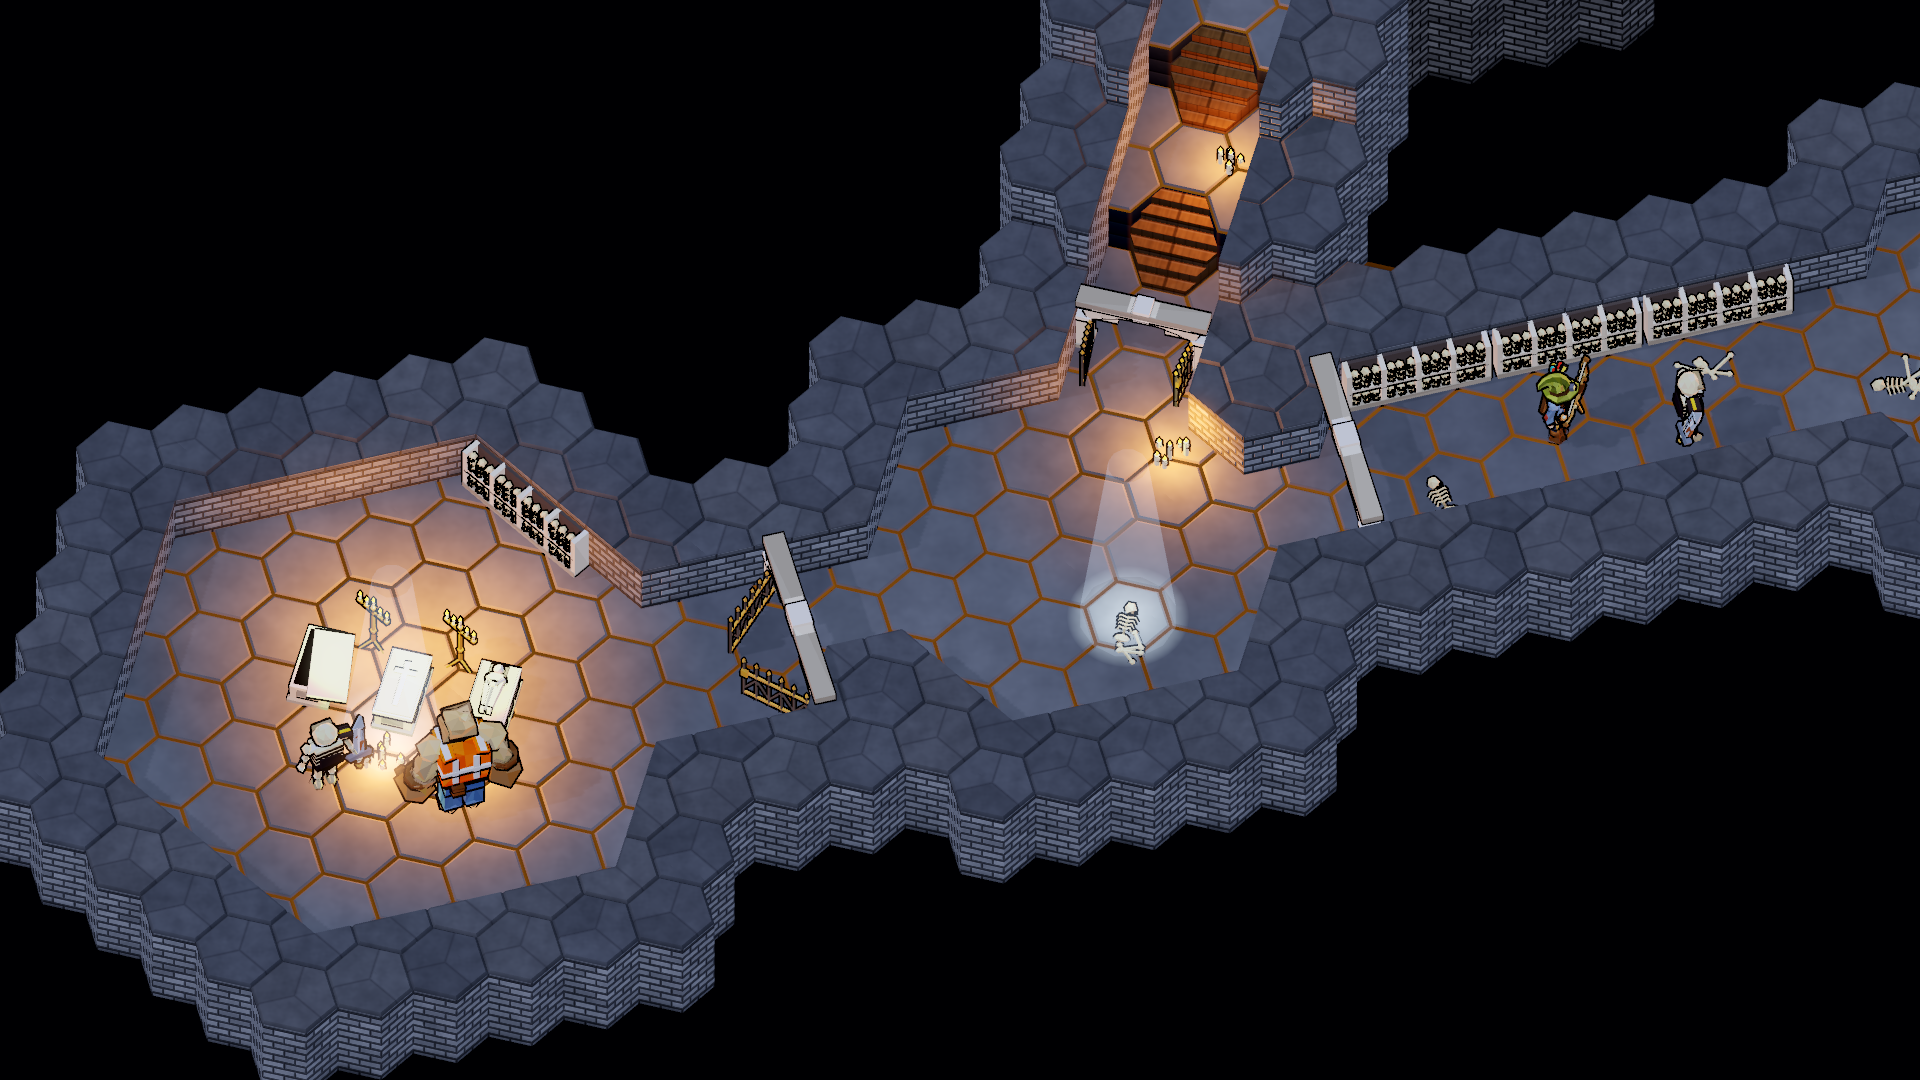
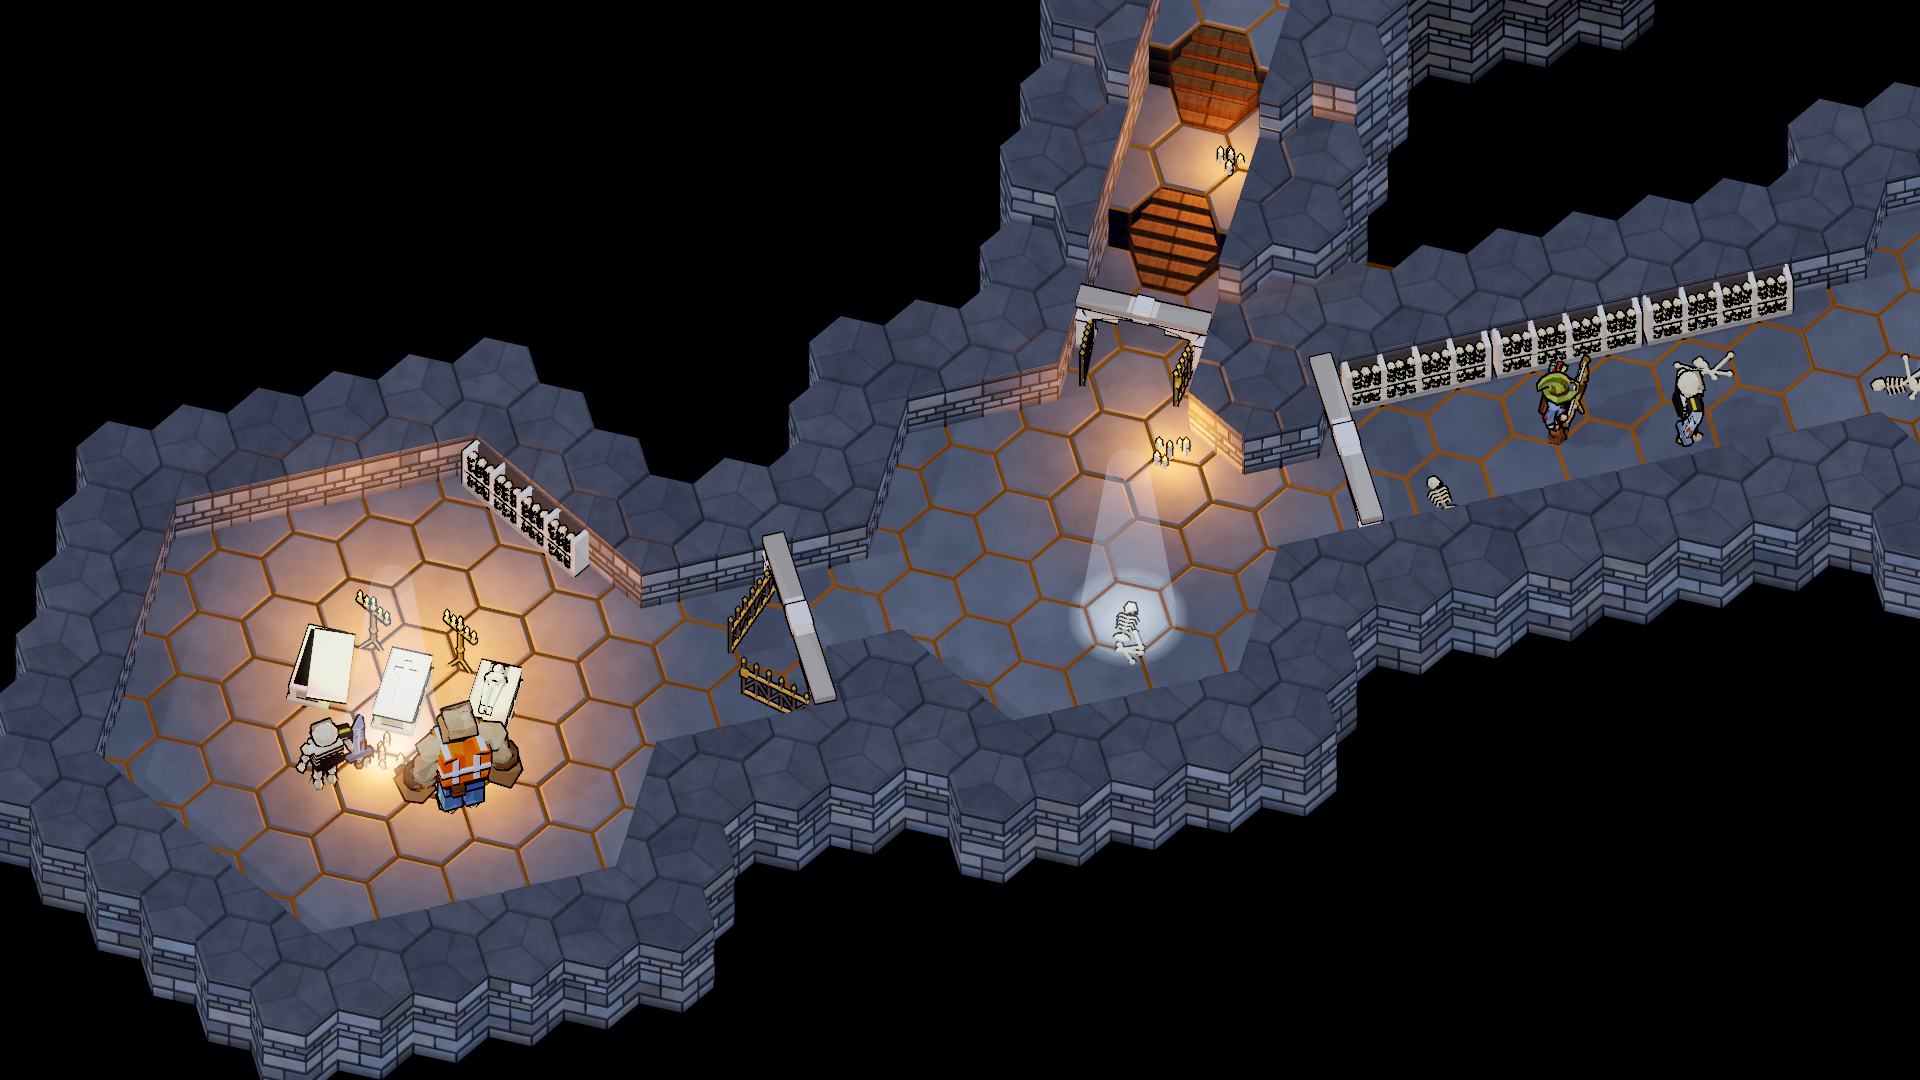
Wall depth, second pass: rough ashlar in larger blocks, and the walls' outline back in the dark
The user: "Bigger blocks" ("Good direction, but use larger blocks so it reads as rough stone, not brick; and fix the
vault's outlines").
- Courses a level tall (3 bands in 10 two half-level courses), stones a whole span or half of one (1.0 / 0.866), still
  locked to the hex corners with quoins; spans split and halves merge at random; more value and a warm or cool hue per
  stone; wandering joints and chipped corners; joints a little wider (readable at 1:1)
- A faint cool emission on the cap bevel over a face and on the coping lip, so wall tops read where no light reaches;
  only edges over a face are marked (CUSTOM0 w = 3, _cap_edge_outer), so it draws silhouettes, not the old seam's grid
- test_wall_mesh checks the marking (and a groove between two wall columns stays unmarked); sheets re-rendered

diff --git a/docs/design/wall-depth.md b/docs/design/wall-depth.md
@@ -16,12 +16,19 @@ built behind one switch. **Off in the game** (today's look) until the user decid
   cell's) stopped 0.07 under a cap that runs right to the line: a slot.
 
 ## What changed (`HexMapView`, `MATERIAL_SHADER`; the switch is `wall_depth`)
-1. **Grid-locked courses and bond.** Courses are half a level (0.25), so they end on the level lines. Stones are 0.5 long
-   on hex-edge faces (corners at u = +/-0.5 mod 1.5) and 0.433 on wall-line faces (hex centres at u = 0 mod 0.866), in a
-   half bond: every other course has a joint on each corner, and the courses between turn it with one stone (a quoin). Each
-   stone is hashed by its world-space centre, so a quoin is one colour on both faces. The face kind comes from the normal's
-   angle mod 60. The formwork (20) and panelling (22) patterns keep their look but their panel lines and rails are now a
-   whole number of levels (1.0 and 1.5) from the level lines.
+1. **Grid-locked courses: rough ashlar** (second pass; the first was a brick bond, see below). A course is a level tall
+   (0.5); about 3 bands in 10 are two half-level courses instead. The bands count down from the coping's lower joint, so the
+   course under the coping is whole (the one at a wall's foot is cut). The joints keep to a span's ends and middle: a
+   hex-edge face's span is corner to corner (1.0; corners at u = +/-0.5 mod 1.5), a wall-line face's is centre to midpoint
+   (0.866; at u = 0 mod 0.866). Level courses alternate a joint on each corner (a whole span, split in two 3 times in 10)
+   with a joint in the middle and a stone turning each corner (a quoin, half a span each way); in a pair of half-level
+   courses the lower one is half spans (merged into one a quarter of the time) and the upper one a middle stone with a half
+   span turning each corner. On a straight wall line the "corners" are hex centres and midpoints, so a quoin there is just a
+   stone a whole span long across them. Each stone is hashed by a world-space point of it (a quoin by its corner, so it is
+   one colour on both faces), for its value (0.58-1.42 of the base) and a warm or cool hue shift. Rough: the joints wander
+   by up to 0.01 (world noise, so both faces of a corner agree) and half the stones have a chipped corner. Joints are a
+   little wider than the bricks' (readable at 1:1). The face kind comes from the normal's angle mod 60. The formwork (20)
+   and panelling (22) patterns keep their look, with their panel lines and rails on whole levels (1.0 and 1.5).
 2. **The wall seam closed.** A wall cap's flat top runs to 0.93 (`WALL_TOP_SCALE`), then its bevel runs out to the full
    hex and down to `SEAM_DROP`, exactly where the faces' tops are: no gap, no ring. A wall-line face's top rises 0.07 to
    the cap's edge: no slot. Same vertices and triangles: the mesh carries the second shape in CUSTOM0 (`Batch.custom`,
@@ -40,7 +47,14 @@ built behind one switch. **Off in the game** (today's look) until the user decid
    under it; the courses count down from it, so the course under it is whole. The cap is the same stone in three large
    slabs per hex, cut on alternate kite lines (centre to the edge midpoints at 0, 120 and 240 degrees: never square lines),
    joints kept quiet so a cap reads as one top. Caps stay darker than floors (the cap stone is the wall's base x 0.44; in
-   the chapel set, the palest, sampled patches of the game view measure about 57 on a cap against 92 on a floor). No new triangles: no lip.
+   the chapel set, the palest, sampled patches of the game view measure about 57 on a cap against 92 on a floor). No new
+   triangles: no lip.
+5. **The outline in the dark** (second pass). The cap's bevel over a face and the coping's lip give off a faint cool light
+   (`WD_EDGE`, about 0.02 linear), so a wall's top edges still read where no light reaches. Only the edges over a face:
+   `_cap_edge_outer` marks those bevel quads at build (CUSTOM0 w = 3), and a groove between two wall tops stays dark, so it
+   draws the walls' silhouettes, not the hex grid the old seam drew, and it is grey-blue, not amber. Under any real light
+   it is lost in the lit stone (the chapel, the lair). Caps stay darker than floors. `tests/test_wall_mesh.gd` checks the
+   marking (every bevel over a face, none on the groove between two wall columns).
 
 No textures, no new draw calls or triangles (`tests/test_floor_materials.gd` passes unchanged). With the switch off the
 shader takes today's path and the mesh is today's (plus the unused CUSTOM0 on the two wall surfaces).
@@ -60,14 +74,24 @@ shader takes today's path and the mesh is today's (plus the unused CUSTOM0 on th
   materials). The full frames are `<set>_off.png` / `<set>_on.png`.
 - `close.png` / `close_2x.png`: an outside wall corner and its cap at size 8, off | on, a row per set.
 
+## Second pass (2026-10-29)
+Asked "How do the walls look with it on?", the user picked "Bigger blocks": "Good direction, but use larger blocks so it
+reads as rough stone, not brick; and fix the vault's outlines". Fix 1 became rough ashlar (above); fix 5, the outline, is new.
+- The first pass's stones were 0.5 x 0.25 (0.433 on wall lines) in a plain half bond: brickwork at the game's zoom.
+- Tried for the vault's outlines: the brief's three options come to one thing in the vault, since nothing there is lit. A lit
+  lip from the virtual light alone does nothing (it scales the albedo, and there is no light to scale), so the lip and the
+  cap's bevel get a minimum value instead, as a faint cool emission (option 2 and 3 together). On every bevel ring it
+  brought back a grey hex grid over the wall tops, the old seam's pattern in another colour; on the bevels over a face
+  only, it draws the walls' outlines, which is what is kept. A first strength (0.012 linear) was too faint at 1:1; it is
+  about 0.02 now.
+
 ## Open questions
-- **The vault loses its wall outlines.** In the vault set the only thing that drew the wall caps in the dark was the dim
-  seam showing through the gap round each cap. With the seam closed the caps go black there (the faces facing a candle
-  read better than before). A faint glow on the cap's outer bevel would bring the outline back, at the price of a seam-like
-  line; not done.
-- **Bricks or blocks.** The grid maths makes small stones (0.5 x 0.25; 0.433 on wall lines): at the game's zoom a wall
-  reads as brickwork. Larger blocks (a level tall, 1.0 long, still on the grid) would read more like rough ashlar but turn
-  fewer corners.
+- **The vault's outline strength.** About 0.02 linear, cool grey: the walls' silhouettes read at 1:1 in the vault, faint.
+  Brighter would start to read as a glow; a warmer tint would read as the old seam. One constant (`WD_EDGE`).
+- **Course mix.** 3 bands in 10 are two half-level courses, 3 spans in 10 split; the rest are level-tall stones a span
+  long. Every wall shares the same band pattern by height (a course is the same all round a room, so corners agree).
+- **The chips** read as rounded corners on the short stones of a half-level course at size 8; at the game's zoom they are
+  a pixel or two.
 - **Caps as slabs.** Three slabs per hex with quiet joints read as a stone top; with the seam gone a long wall's cap reads
   as one mass with grooves between hexes. Straight slabs along a wall line are the alternative the brief allowed.
 - **The game.** In the lair's light the bent normals are moderate (not toned down further). The seam ring round wall caps
